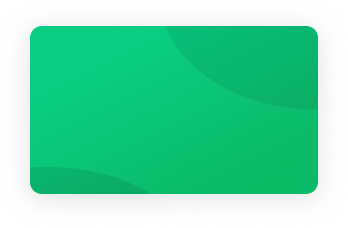
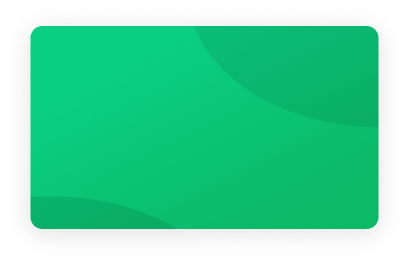
🎨 style: Add cards style

Changed region(s): [[0.0575, 0.0921, 0.9483, 0.8904]]

diff --git a/src/css/components/cards.css b/src/css/components/cards.css
@@ -1,0 +1,130 @@
+.cards{
+    display: flex;
+    flex-direction: column;
+    gap: 36px;
+}
+
+/* Credit Cards */
+
+.credit__cards{
+    display: flex;
+    flex-direction: column;
+    gap: 36px;
+}
+
+.credit__card{
+    width: 288px;
+    min-height: 168px;
+    border-radius: 12px;
+    padding: 12px 18px;
+    background-image: url("/public/backgrounds/green-background.png");
+    background-position: center;
+    color: #fff;
+    position: relative;
+}
+
+.credit__card--add{
+    display: none;
+}
+
+.credit__card img{
+    position: absolute;
+    right: 18px;
+    top: 14px;
+}
+
+.credit__subtitle{
+    font-size: 14px;
+    font-weight: 500;
+    margin-bottom: 15px;
+}
+
+.credit__balance{
+    font-size: 28px;
+    margin-bottom: 11px;
+}
+
+.credit__number{
+    display: inline-block;
+    font-weight: 500;
+    font-size: 20px;
+    margin-bottom: 11px;
+}
+
+.credit__bottom{
+    display: grid;
+    grid-template-columns: 1fr 1fr;
+}
+
+.column__title{
+    font-weight: 400;
+    font-size: 12px;
+}
+
+.column__value{
+    font-weight: 500;
+    font-size: 16px;
+}
+
+.credit__buttons{
+    display: flex;
+    gap: 8px;
+    position: absolute;
+    right: 10px;
+    bottom: -16px;
+}
+
+.credit__buttons button{
+    width: 36px;
+    height: 36px;
+    font-size: 20px;
+    border-radius: 50%;
+    background-color: #fff;
+    border: 2px solid #E1E6EF;
+    cursor: pointer;
+    transition: .3s ease-in-out scale;
+}
+
+.credit__buttons button:hover{
+    scale: 1.1;
+}
+
+.credit__buttons button:first-child{
+    color: var(--primary);
+}
+
+.credit__buttons button:last-child{
+    color: var(--blue);
+}
+
+/* Effective Card */
+
+.card__effective{
+    width: 224px;
+    border: 2px solid var(--primary);
+    border-radius: 10px;
+    padding: 20px;
+}
+
+.effective_icon{
+    width: 56px;
+    height: 56px;
+    background-color: rgba(37, 201, 53, 0.2);
+    color: var(--primary);
+    border-radius: 50%;
+    font-size: 28px;
+    display: grid;
+    place-items: center;
+    margin-bottom: 10px;
+}
+
+.effective__title{
+    font-weight: 400;
+    font-size: 16px;
+    margin-bottom: 4px;
+    opacity: 0.8;
+}
+
+.effective__balance{
+    font-size: 26px;
+}
